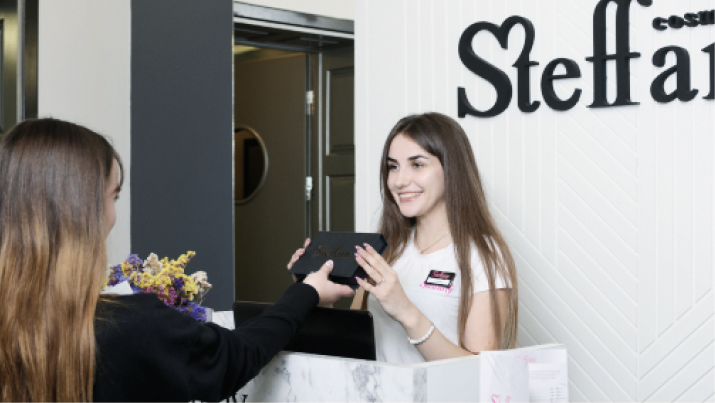
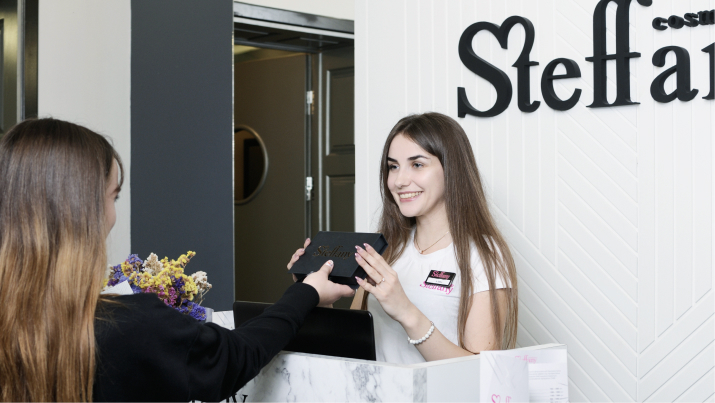
add photos

diff --git a/laser/src/js/changeCity.js b/laser/src/js/changeCity.js
@@ -78,7 +78,7 @@ $(document).ready(function () {
         cityName: 'Львов',
         cityNameIn: 'Львове',
         address: 'ул. Гулака-Артемовского, 2',
-        imagesAmount: 0,
+        imagesAmount: 11,
         imagesAmountSpecialists: null,
         specialists: []
       }
